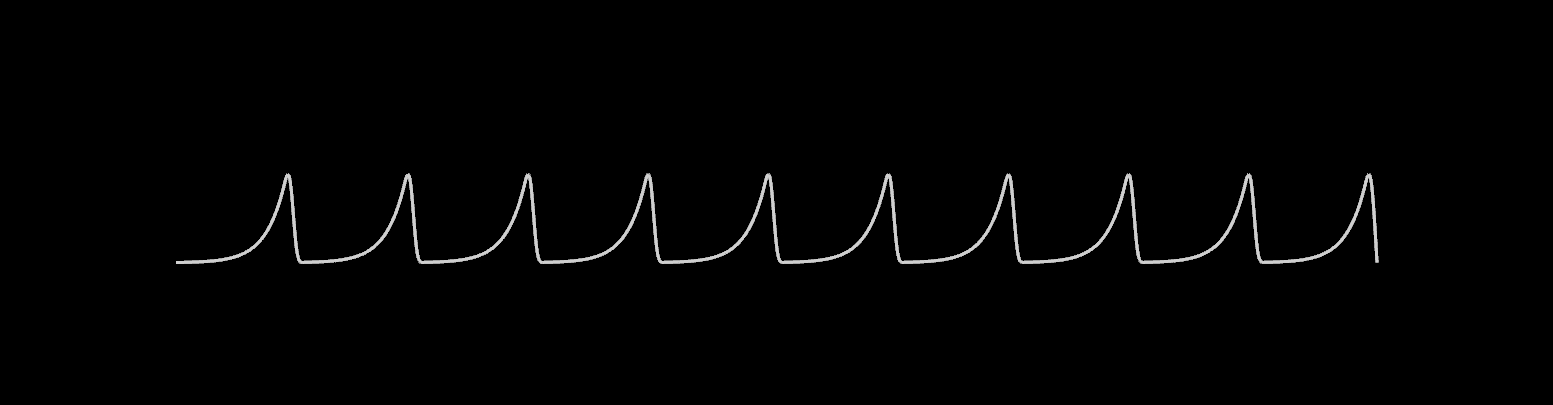
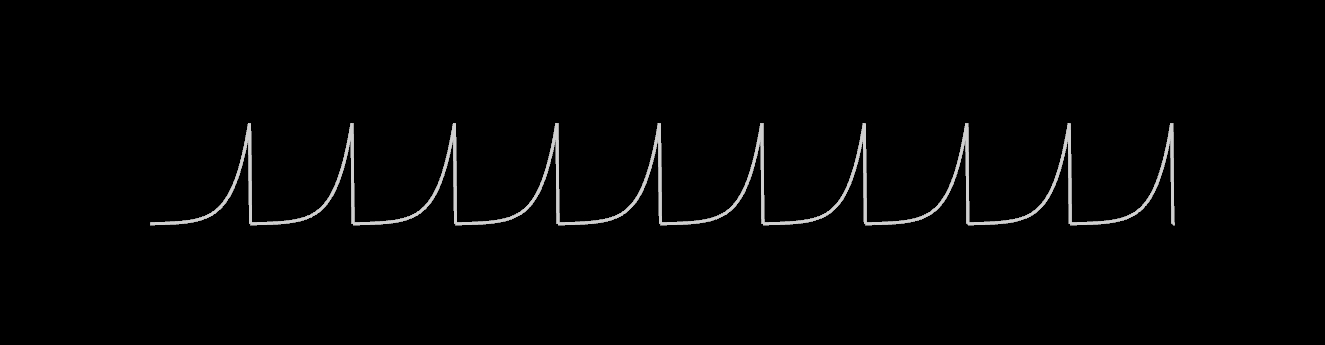
sawtooth exp reversed

diff --git a/content/notes/WaveExpressions.md b/content/notes/WaveExpressions.md
@@ -12,7 +12,7 @@ I recently stumbled across [this](https://www.cameroncarson.com/nuke-wave-expres
 
 ---
 
-Every wrangle includes this base code to setup the parameters:
+Every wrangle runs on a 10 unit long resampled line along the includes this base code to setup the parameters:
 
 ```C
 float offset = chf("offset");
@@ -93,6 +93,14 @@ float min = chf("min");
 @P.y = (exp(2*PI*((@P.z+offset) % wavelength)/wavelength)-1)/exp(2*PI) * (max-min) + min;
 ```
 
+### Sawtooth Exponential Reversed
+
+![[notes/images/vexwaves.9.5.jpg]]
+
+```C
+@P.y = (exp(2*PI*(1-(((@P.z+offset) % wavelength)/wavelength)))-1)/exp(2*PI) * (max-min) + min;
+```
+
 ### Bounce
 
 ![[notes/images/vexwaves.10.jpg]]
@@ -109,13 +117,18 @@ float min = chf("min");
 float bliplength = chf("bliplength");
 float value = ((@P.z+(offset+wavelength)) % (wavelength+bliplength)/(wavelength)) * (wavelength/bliplength) - (wavelength/bliplength);
 
-if(value > min)
+if(value > 0)
 {
-    @P.y = max;
+    value = 1;
 }
+
+@P.y = fit01(value, min, max);
 ```
 
+
+
 sources / further reading:
-- [Nuke Wave Expressions](https://www.cameroncarson.com/nuke-wave-expressions)
+- [Nuke Wave Expressions - Cameron Carson](https://www.cameroncarson.com/nuke-wave-expressions)
+- [List of Periodic Functions - Wikipedia](https://en.wikipedia.org/wiki/List_of_periodic_functions)
 
 
